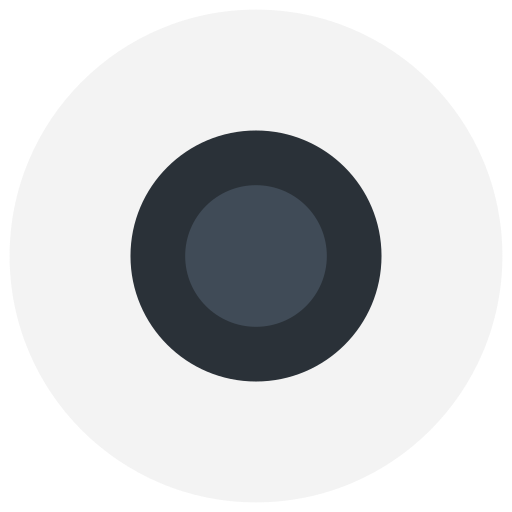
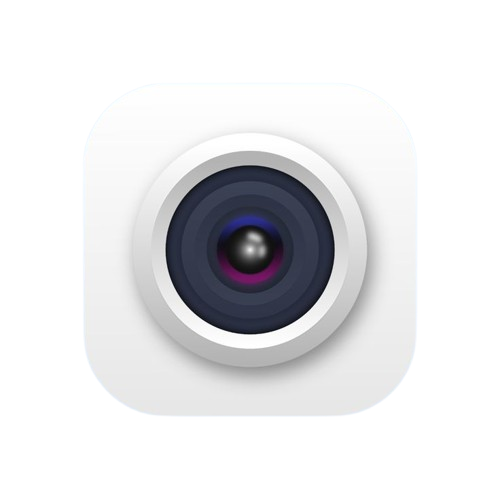
feat: add NutritionRefreshContext for centralized nutrition data refresh orchestration
- Introduced a new context to manage global refresh of nutrition data across components.
- Implemented triggerRefresh function to handle immediate and debounced refreshes.
- Enhanced user experience by ensuring all nutrition views update instantly after changes.

Changed region(s): [[0.24, 0.24, 0.78, 0.78], [0.39, 0.39, 0.6, 0.6]]

diff --git a/frontend/src/shared/context/NutritionRefreshContext.js b/frontend/src/shared/context/NutritionRefreshContext.js
@@ -1,0 +1,89 @@
+/**
+ * NutritionRefreshContext — Centralized nutrition data refresh orchestration
+ * 
+ * WHY THIS EXISTS:
+ * Before: nutritionRefreshKey was only incremented in App.js after camera saves.
+ * Edits, deletes, unknowns, retries in NutritionDashboard didn't refresh home screen cards.
+ * 
+ * Solution: Global context that any component can trigger to refresh ALL nutrition views:
+ *   - HomeNutritionCarousel (home screen cards)
+ *   - NutritionDashboard (detailed meal list)
+ *   - Any future nutrition displays
+ * 
+ * USAGE:
+ *   const { triggerRefresh } = useNutritionRefresh();
+ *   await saveMeal();
+ *   triggerRefresh(); // Updates everywhere instantly
+ */
+import React, { createContext, useContext, useState, useCallback, startTransition } from 'react';
+
+const NutritionRefreshContext = createContext(null);
+
+export function NutritionRefreshProvider({ children }) {
+  const [refreshKey, setRefreshKey] = useState(0);
+  const [pendingRefresh, setPendingRefresh] = useState(false);
+
+  /**
+   * Trigger a global nutrition data refresh.
+   * Wrapped in startTransition to prevent Suspense errors.
+   * @param {Object} options
+   * @param {boolean} options.immediate - Skip debounce (default: false)
+   * @param {string} options.source - Debug label for who triggered refresh
+   */
+  const triggerRefresh = useCallback((options = {}) => {
+    const { immediate = false, source = 'unknown' } = options;
+
+    if (process.env.NODE_ENV !== 'production') {
+      console.log(`🔄 [NutritionRefresh] Triggered by: ${source}`, { immediate, currentKey: refreshKey });
+    }
+
+    // Immediate refresh (used after saves/deletes) - wrapped in startTransition
+    if (immediate) {
+      startTransition(() => {
+        setRefreshKey(prev => {
+          const newKey = prev + 1;
+          if (process.env.NODE_ENV !== 'production') {
+            console.log(`🔄 [NutritionRefresh] Key updated: ${prev} → ${newKey}`);
+          }
+          return newKey;
+        });
+        setPendingRefresh(false);
+      });
+      return;
+    }
+
+    // Debounced refresh (accumulate rapid edits) - also wrapped in startTransition
+    setPendingRefresh(prev => {
+      if (!prev) {
+        setTimeout(() => {
+          startTransition(() => {
+            setRefreshKey(k => k + 1);
+            setPendingRefresh(false);
+          });
+        }, 300); // 300ms debounce window
+        return true;
+      }
+      return prev; // Already pending, skip
+    });
+  }, [refreshKey]);
+
+  const value = {
+    refreshKey,
+    triggerRefresh,
+    pendingRefresh,
+  };
+
+  return (
+    <NutritionRefreshContext.Provider value={value}>
+      {children}
+    </NutritionRefreshContext.Provider>
+  );
+}
+
+export function useNutritionRefresh() {
+  const context = useContext(NutritionRefreshContext);
+  if (!context) {
+    throw new Error('useNutritionRefresh must be used within NutritionRefreshProvider');
+  }
+  return context;
+}

diff --git a/frontend/src/App.js b/frontend/src/App.js
@@ -118,6 +118,7 @@ import { ClubSelectionModal } from "./features/nutrition-centers";
 // import { TaskNotificationPanel } from "./features/tasks"; // Commented out - Task Scheduler UI hidden
 import CustomAlertModal from "./shared/components/CustomAlertModal";
 import { CoachScoreSummary } from "./features/leaderboard";
+import { NutritionRefreshProvider, useNutritionRefresh } from "./shared/context/NutritionRefreshContext";
 import LEADERBOARD_CONFIG from "./config/leaderboardConfig";
 import GalleryMonitor from "./shared/services/galleryMonitor";
 import KeepAwakePlugin from "./shared/plugins/keepAwakePlugin";
@@ -337,7 +338,7 @@ function WellnessValleyApp() {
   const [educationResult, setEducationResult] = useState(null); // Store education meeting results
   const [watchResult, setWatchResult] = useState(null); // Store smartwatch activity results
   const [educationRefreshKey, setEducationRefreshKey] = useState(0); // Increment to force EducationDashboard re-fetch
-  const [nutritionRefreshKey, setNutritionRefreshKey] = useState(0); // Increment to force HomeNutritionCarousel re-fetch
+  // Nutrition refresh key removed - now using NutritionRefreshContext (see hooks below)
   const [watchBurnedCalories, setWatchBurnedCalories] = useState(0); // Latest kcal from watch upload ? pushed to NutritionDashboard
   const [sharePhotoBase64, setSharePhotoBase64] = useState(null); // CORS-safe base64 photo for share card
   const [savedProfileImage, setSavedProfileImage] = useState(null); // Custom profile image for share card.here 
@@ -382,6 +383,9 @@ function WellnessValleyApp() {
   // can be reconstructed from a single log dump.
   const captureFlowStartRef = useRef(0);
   const foodShareImageReadyAtRef = useRef(0);
+
+  // Hook into global nutrition refresh context (replaces old nutritionRefreshKey state)
+  const { refreshKey: nutritionRefreshKey, triggerRefresh: triggerNutritionRefresh } = useNutritionRefresh();
 
   // Pre-paint the off-screen food-share card to a JPEG during idle time, so
   // when the user taps "Share Image + Link" the share sheet appears instantly
@@ -3299,6 +3303,8 @@ function WellnessValleyApp() {
       await promoteUnknownToFood({ captureId, viewerUserId: user.id, analysisResult });
       setUnknownShareView((v) => ({ ...v, open: false, retrying: false }));
       showToast("Saved to your diary");
+      // Trigger global nutrition refresh after promoting unknown to food
+      triggerNutritionRefresh({ immediate: true, source: 'unknown-retry' });
     } catch (e) {
       setUnknownShareView((v) => ({ ...v, retrying: false, error: "Couldn't analyse the photo — try Edit instead." }));
     }
@@ -3340,6 +3346,8 @@ function WellnessValleyApp() {
       setShareEditView({ open: false, captureId: null });
       setUnknownShareView((v) => ({ ...v, open: false }));
       showToast("Saved to your diary");
+      // Trigger global nutrition refresh after editing unknown capture
+      triggerNutritionRefresh({ immediate: true, source: 'unknown-edit' });
     } catch (e) {
       showToast("Couldn't save — please try again");
     }
@@ -3666,6 +3674,9 @@ function WellnessValleyApp() {
         // Refresh data
         handleLeaderboardRefresh();
         
+        // Trigger nutrition refresh for home screen cards
+        triggerNutritionRefresh({ immediate: true, source: 'club-modal-save' });
+        
       } catch (error) {
         console.error('❌ Error saving nutrition:', error);
         setAlertModal({
@@ -3774,7 +3785,7 @@ function WellnessValleyApp() {
       handleLeaderboardRefresh();
 
       // Signal HomeNutritionCarousel to re-fetch today's stats live.
-      setNutritionRefreshKey((prev) => prev + 1);
+      triggerNutritionRefresh({ immediate: true, source: 'camera-save' });
 
       // ? ANDROID FIX: Don't auto-show popup - data is saved silently
       // Users can view saved data from Dashboard/Insights button
@@ -7617,27 +7628,27 @@ function WellnessValleyApp() {
 
       {/* 📸 Floating Camera & Gallery Buttons - Quick Access (Home Screen Only) - Centered */}
       {user && !authLoading && isOtpVerified && !profileChecking && !showSetupWizard && !showDashboard && !showAdminDashboard && !showRegisterCenter && !showWellnessCounselling && !showValidateOTP && !showCompleteProfile && (
-        <div className="fixed bottom-6 left-1/2 transform -translate-x-1/2 z-50 flex gap-4">
+        <div className="fixed bottom-6 left-1/2 transform -translate-x-1/2 z-50 flex gap-3">
           {/* Camera Button */}
           <button
             onClick={() => { fileInputRef.current?.openCamera?.(); }}
             disabled={loading}
-            className="p-2.5 rounded-full bg-green-500 shadow-lg transition-all duration-200 active:scale-95 hover:scale-110 hover:bg-green-600 disabled:opacity-50 disabled:cursor-not-allowed"
+            className="p-2 rounded-full bg-white/90 backdrop-blur-sm shadow-xl border-2 border-gray-200 transition-all duration-200 active:scale-90 hover:scale-105 hover:shadow-2xl disabled:opacity-50 disabled:cursor-not-allowed"
             title="Take Photo"
             aria-label="Quick camera access"
           >
-            <img src="/app.png" alt="Camera" className="w-10 h-10 pointer-events-none select-none" draggable={false} />
+            <img src="/app.png" alt="Camera" className="w-12 h-12 pointer-events-none select-none" draggable={false} />
           </button>
           
           {/* Gallery Button */}
           <button
             onClick={() => { fileInputRef.current?.openGallery?.(); }}
             disabled={loading}
-            className="p-2.5 rounded-full bg-blue-500 shadow-lg transition-all duration-200 active:scale-95 hover:scale-110 hover:bg-blue-600 disabled:opacity-50 disabled:cursor-not-allowed"
+            className="p-2 rounded-full bg-white/90 backdrop-blur-sm shadow-xl border-2 border-gray-200 transition-all duration-200 active:scale-90 hover:scale-105 hover:shadow-2xl disabled:opacity-50 disabled:cursor-not-allowed"
             title="Choose from Gallery"
             aria-label="Quick gallery access"
           >
-            <img src="/gallery.png" alt="Gallery" className="w-10 h-10 pointer-events-none select-none" draggable={false} />
+            <img src="/gallery.png" alt="Gallery" className="w-12 h-12 pointer-events-none select-none" draggable={false} />
           </button>
         </div>
       )}
@@ -7928,4 +7939,11 @@ function WellnessValleyApp() {
   );
 }
 
-export default WellnessValleyApp;
+// Wrap app in NutritionRefreshProvider for global nutrition data refresh
+const AppWithProviders = () => (
+  <NutritionRefreshProvider>
+    <WellnessValleyApp />
+  </NutritionRefreshProvider>
+);
+
+export default AppWithProviders;

diff --git a/frontend/src/features/nutrition/hooks/useMealItemMutations.js b/frontend/src/features/nutrition/hooks/useMealItemMutations.js
@@ -1,4 +1,5 @@
 import { useState } from 'react';
+import { useNutritionRefresh } from '../../../shared/context/NutritionRefreshContext';
 import {
   recalculateTotals,
   resolveFoodItemIndex,
@@ -26,6 +27,7 @@ export function useMealItemMutations({
   isAutoSaveUpdateRef,
 }) {
   const [isSaving, setIsSaving] = useState(false);
+  const { triggerRefresh } = useNutritionRefresh(); // Global refresh trigger for home cards
 
   const persistMealItems = async (newItems, newTotals, options = {}) => {
     if (!selectedMeal?.ID) return;
@@ -54,6 +56,11 @@ export function useMealItemMutations({
           isAutoSaveUpdateRef.current = true;
         },
       });
+
+      // Trigger global nutrition refresh (updates home cards)
+      if (refreshStats) {
+        triggerRefresh({ immediate: true, source: 'meal-edit' });
+      }
     } catch (error) {
       console.error('[useMealItemMutations] Failed to persist meal items:', error);
       throw error;

diff --git a/frontend/src/features/nutrition/hooks/useMealDeleteMutations.js b/frontend/src/features/nutrition/hooks/useMealDeleteMutations.js
@@ -1,4 +1,5 @@
 import { useState } from 'react';
+import { useNutritionRefresh } from '../../../shared/context/NutritionRefreshContext';
 import {
   parseAnalysisData,
   deleteMealById,
@@ -48,6 +49,7 @@ export function useMealDeleteMutations({
   undoSeconds = DEFAULT_UNDO_SECONDS,
 }) {
   const [deletingId, setDeletingId] = useState(null);
+  const { triggerRefresh } = useNutritionRefresh(); // Global refresh trigger for home cards
 
   const optimisticDelete = async (meal, { fromModal }) => {
     if (!meal?.ID) return;
@@ -88,6 +90,8 @@ export function useMealDeleteMutations({
     try {
       await deleteMealById({ apiBaseUrl, id: meal.ID, userId: user?.id });
       if (onMealDelete) onMealDelete(meal.ID);
+      // Trigger global nutrition refresh (updates home cards)
+      triggerRefresh({ immediate: true, source: 'meal-delete' });
     } catch (err) {
       // Rollback on failure
       setAnalyses((prev) => {